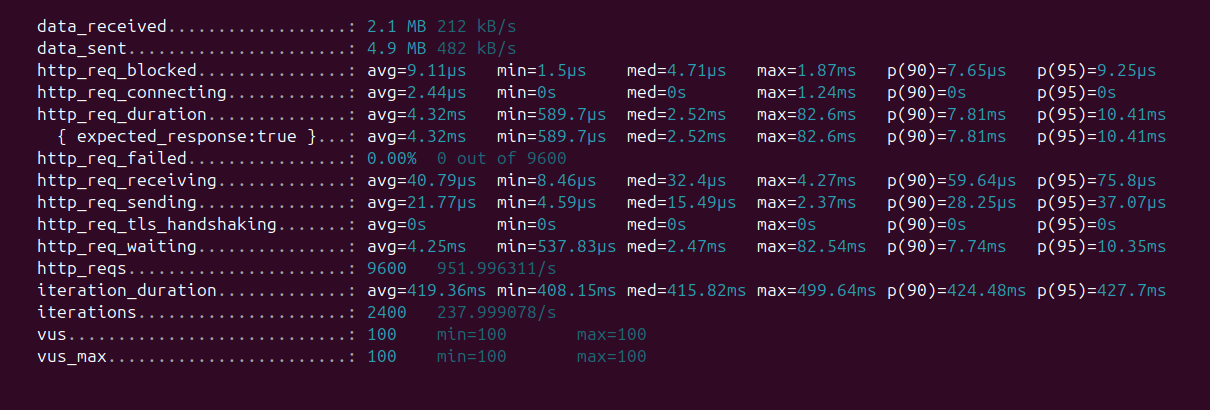
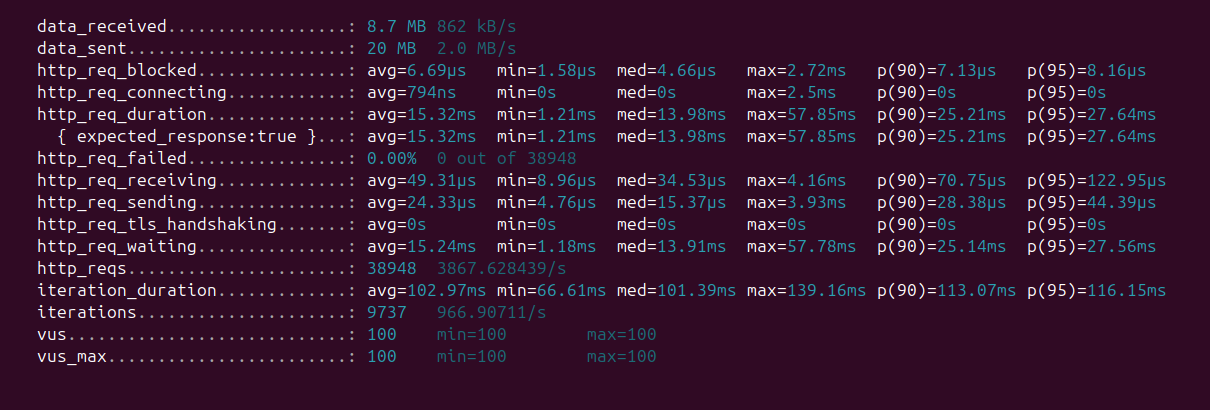
Load tes but better

diff --git a/LoadTests/test.js b/LoadTests/test.js
@@ -36,18 +36,18 @@ export default function () {
         console.log(res);
     }
     let rich_man = available_users[Math.floor(Math.random()*available_users.length)]
-    sleep(0.1);
+    sleep(0.01);
     params.headers.Authorization = 'Bearer ' + res.json().token;
     res = http.get(url+'/info', params);
     if(res.status != 200){
         console.log(res);
     }
-    sleep(0.1);
+    sleep(0.01);
     res = http.get(url+'/buy/cup', params);
     if(res.status != 200){
         console.log(res);
     }
-    sleep(0.1);
+    sleep(0.01);
     payload = JSON.stringify({
         toUser: rich_man,
         amount: 10,
@@ -56,5 +56,5 @@ export default function () {
     if(res.status != 200){
         console.log(res);
     }
-    sleep(0.1);
+    sleep(0.01);
   }
